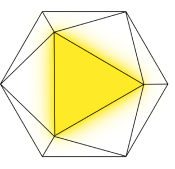
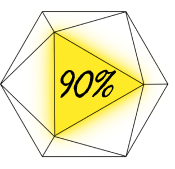
updated hex images

Changed region(s): [[0.3429, 0.4142, 0.6857, 0.5917]]

diff --git a/index.html b/index.html
@@ -220,7 +220,7 @@
               alt="Hexagon1"
               class="hex1"
             />
-            <div class="hex1-text">90%</div>
+            
             <div class="arrow1">
               <img
                 src="./assets/statsImgs/arrow1.svg"
@@ -245,7 +245,7 @@
               alt="Hexagon2"
               class="hex2"
             />
-            <div class="hex2-text">4X</div>
+            
             <div class="arrow2">
               <img
                 src="./assets/statsImgs/arrow2.svg"
@@ -267,7 +267,7 @@
               alt="Hexagon3"
               class="hex3"
             />
-            <div class="hex3-text">60%</div>
+            
             <div class="arrow3">
               <img
                 src="./assets/statsImgs/arrow3.svg"
